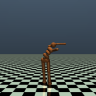
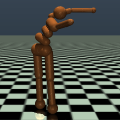
showreel(gallery): better stills for Pusher, Reacher and Humanoid, each with a moment and a crop of its own (PosterShot)
The maintainer, 2026-11-22: "Pusher and reacher need better photos, so does humanaoid".

Why those three were poor. The gallery's poster PNG, the still the README's gallery shows, is the frame 2/5 of the way through
each loop with the whole 480x480 frame shrunk five-fold to 96x96 (Gallery.Write, Pixelate = 5). That suits an env whose
subject fills its frame and fails three whose subject does not: Pusher's table and arm fill the upper left of a black frame
(x 50-320, y 112-290), Reacher's arena sits in the middle of a gray one with an arm a few pixels thick, and Humanoid's figure
(x 190-370, y 213-427) is a 43-pixel strip in the middle of sky and floor.

What changed
- Episodes.cs: PosterShot(Seconds, Left, Top, Width, Height, PixelWidth, PixelHeight), a recipe's optional moment and crop in the
  env's own frame pixels (EpisodeRecipe.Poster), set for the three. The comment on each recipe says where its subject is and why
  the moment: Pusher at 0.5 s (the arm stretched out, its gripper open beside the red puck; crop 240x160 at 110,150 to 120x80),
  Reacher at 2.2 s (crop 360x240 at 48,140 to 120x80: the whole arena, the arm stretched out and the target a dot of its own),
  Humanoid at 0.9 s (crop 240x240 at 144,200 to 120x120: standing with its arms out, with equal margins above and below).
- Gallery.cs: the poster is cut at the recipe's moment and crop. Downscale gained a rectangle overload, and the whole-frame one
[…]

diff --git a/tools/showreel/Gallery.cs b/tools/showreel/Gallery.cs
@@ -28,6 +28,12 @@ namespace Gym.Showreel;
 ///     rate (7.7 MB at 15 fps) and 28.9 MB as lossless WebP at 15 fps (up to 4.9 MB for one MuJoCo loop). The page
 ///     downloads only the loop on screen.
 ///     </para>
+///     <para>
+///     The poster PNG is the still the README's gallery shows (the docs site does not read it). By default it is the frame 2/5 of
+///     the way through the loop at the cartridge loop's size, a fifth of the frame's: right for an env whose subject fills its
+///     frame, a few dozen meaningful pixels for one that does not. A recipe with a <see cref="PosterShot"/> (Pusher, Reacher and
+///     Humanoid) names its own moment and the part of the frame to keep.
+///     </para>
 /// </remarks>
 internal static class Gallery {
     /// <summary>Frames per second of the cartridge loops.</summary>
@@ -70,6 +76,12 @@ internal static class Gallery {
             using var player = new EpisodePlayer(recipe);
             RgbImage first = player.Frame;
             int w = Math.Max(48, (int)Math.Round(first.Width / (double)Pixelate)), h = Math.Max(32, (int)Math.Round(first.Height / (double)Pixelate));
+            // The poster's cartridge frame: 2/5 of the way through by default, else the recipe's own moment (PosterShot). Checked
+            // here, before any encoder starts, so a moment outside the loop fails at once, not after every frame was rendered
+            // and no still was ever written.
+            int posterFrame = recipe.Poster is { } shot ? (int)Math.Round(shot.Seconds * Fps, MidpointRounding.AwayFromZero) : frames * 2 / 5;
+            if (posterFrame < 0 || posterFrame >= frames)
+                throw new InvalidOperationException($"{recipe.Id}: the poster's moment is cartridge frame {posterFrame}, outside the loop's {frames} frames");
             string loop = Path.Combine(folder, recipe.Id + ".webp"), poster = Path.Combine(folder, recipe.Id + ".png");
             string screen = Path.Combine(folder, recipe.Id + ".mp4");
             // Both pipes are disposed on any failure, which kills an unfinished encoder instead of leaving it waiting on
@@ -87,8 +99,8 @@ internal static class Gallery {
                         screenPipe.Write(player.Frame);
                     if (s % 2 == 0 && s / 2 < frames) {
                         pipe.Write(player.Frame);
-                        if (s / 2 == frames * 2 / 5)
-                            Downscale(player.Frame, w, h).SavePng(poster);
+                        if (s / 2 == posterFrame)
+                            Poster(player.Frame, recipe, w, h).SavePng(poster);
                     }
                 }
                 pipe.Finish();
@@ -162,22 +174,61 @@ internal static class Gallery {
             env.ActionSpace.ToString()!, env.ObservationSpace.ToString()!);
     }
 
+    /// <summary>
+    ///     Cuts a recipe's poster still out of one of its frames: the whole frame shrunk to the loop's size, or the part of it the
+    ///     recipe's <see cref="PosterShot"/> names at the size it names.
+    /// </summary>
+    /// <param name="frame">The env's frame at the poster's moment.</param>
+    /// <param name="recipe">The recipe; its <see cref="EpisodeRecipe.Poster"/> says how to cut, or is null for the default.</param>
+    /// <param name="w">The loop's width, which is the default still's.</param>
+    /// <param name="h">The loop's height, which is the default still's.</param>
+    /// <returns>The still.</returns>
+    /// <exception cref="InvalidOperationException">The recipe's crop does not lie inside the frame (a recipe written for a frame size the env no longer renders).</exception>
+    private static RgbImage Poster(RgbImage frame, EpisodeRecipe recipe, int w, int h) {
+        if (recipe.Poster is not { } shot)
+            return Downscale(frame, w, h);
+        // A crop that leaves the frame would average pixels that are not there (the filter clips silently), so it is refused:
+        // the still would come out dark along the missing edge, and nobody would notice until the README showed it.
+        if (shot.Left < 0 || shot.Top < 0 || shot.Width <= 0 || shot.Height <= 0
+            || shot.Left + shot.Width > frame.Width || shot.Top + shot.Height > frame.Height)
+            throw new InvalidOperationException($"{recipe.Id}: the poster's crop {shot.Width}x{shot.Height} at {shot.Left},{shot.Top} does not lie inside the {frame.Width}x{frame.Height} frame");
+        return Downscale(frame, shot.Left, shot.Top, shot.Width, shot.Height, shot.PixelWidth, shot.PixelHeight);
+    }
+
     /// <summary>Shrinks a frame by averaging each output pixel's footprint (an area filter, like ffmpeg's).</summary>
     /// <param name="src">The frame.</param>
     /// <param name="w">Output width.</param>
     /// <param name="h">Output height.</param>
     /// <returns>The small image.</returns>
-    public static RgbImage Downscale(RgbImage src, int w, int h) {
+    public static RgbImage Downscale(RgbImage src, int w, int h) => Downscale(src, 0, 0, src.Width, src.Height, w, h);
+
+    /// <summary>
+    ///     Shrinks a rectangle of a frame by averaging each output pixel's footprint of source pixels, in whole pixels: exact when
+    ///     the rectangle is a whole multiple of the output size, unevenly sampled when it is not.
+    /// </summary>
+    /// <param name="src">The frame.</param>
+    /// <param name="left">The rectangle's left edge, in the frame's pixels.</param>
+    /// <param name="top">The rectangle's top edge.</param>
+    /// <param name="width">The rectangle's width.</param>
+    /// <param name="height">The rectangle's height.</param>
+    /// <param name="w">Output width.</param>
+    /// <param name="h">Output height.</param>
+    /// <returns>The small image.</returns>
+    /// <remarks>
+    ///     The whole-frame overload calls this with the whole frame, so its output is what it always was, bit for bit. The
+    ///     rectangle is not checked here; <see cref="Poster"/>, the one place a rectangle comes from, checks it.
+    /// </remarks>
+    public static RgbImage Downscale(RgbImage src, int left, int top, int width, int height, int w, int h) {
         var dst = new RgbImage(w, h);
-        double sx = (double)src.Width / w, sy = (double)src.Height / h;
+        double sx = (double)width / w, sy = (double)height / h;
         for (int y = 0; y < h; y++) {
-            int y0 = (int)(y * sy), y1 = Math.Max(y0 + 1, (int)((y + 1) * sy));
+            int y0 = top + (int)(y * sy), y1 = Math.Max(y0 + 1, top + (int)((y + 1) * sy));
             for (int x = 0; x < w; x++) {
-                int x0 = (int)(x * sx), x1 = Math.Max(x0 + 1, (int)((x + 1) * sx));
+                int x0 = left + (int)(x * sx), x1 = Math.Max(x0 + 1, left + (int)((x + 1) * sx));
                 double r = 0, g = 0, b = 0;
                 int n = 0;
-                for (int yy = y0; yy < y1 && yy < src.Height; yy++)
-                    for (int xx = x0; xx < x1 && xx < src.Width; xx++) {
+                for (int yy = y0; yy < y1 && yy < top + height; yy++)
+                    for (int xx = x0; xx < x1 && xx < left + width; xx++) {
                         int o = (yy * src.Width + xx) * 3;
                         r += src.Pixels[o];
                         g += src.Pixels[o + 1];

diff --git a/tools/showreel/Episodes.cs b/tools/showreel/Episodes.cs
@@ -32,6 +32,30 @@ internal sealed record DelegatePolicy(Func<IEnv, object?, object> Rule) : IPolic
 }
 
 /// <summary>
+///     How the gallery cuts a recipe's poster still (the PNG the README's gallery shows) out of its episode: which moment, which
+///     part of the env's frame, and at what size. A recipe without one gets the default still, the whole frame at a fifth of its
+///     size from 2/5 of the way through the loop, which suits an env whose subject fills its frame and leaves a few dozen
+///     meaningful pixels for one that does not (Pusher's arm, Reacher's arm and Humanoid's figure fill a third of theirs).
+/// </summary>
+/// <param name="Seconds">
+///     The moment, in seconds from the start of the loop (the loop plays at the recipe's own speed; the still is the cartridge
+///     frame nearest this time, at the gallery's 15 frames a second). It must fall inside the loop, its final hold included.
+/// </param>
+/// <param name="Left">The left edge of the part of the env's frame that is kept, in the frame's own pixels.</param>
+/// <param name="Top">The top edge of that part, in the frame's own pixels.</param>
+/// <param name="Width">The width of that part, in the frame's own pixels.</param>
+/// <param name="Height">The height of that part, in the frame's own pixels.</param>
+/// <param name="PixelWidth">The still's width in pixels.</param>
+/// <param name="PixelHeight">The still's height in pixels.</param>
+/// <remarks>
+///     Choose <paramref name="Width"/> and <paramref name="Height"/> as whole multiples of <paramref name="PixelWidth"/> and
+///     <paramref name="PixelHeight"/>: the gallery averages each output pixel's footprint of source pixels in whole pixels
+///     (<see cref="Gallery.Downscale(RgbImage, int, int, int, int, int, int)"/>), exact when the ratio is an integer and
+///     unevenly sampled when it is not, which shows on thin lines such as Reacher's arm.
+/// </remarks>
+internal sealed record PosterShot(double Seconds, int Left, int Top, int Width, int Height, int PixelWidth, int PixelHeight);
+
+/// <summary>
 ///     One episode the showreel plays: a registered id, a seed, the policy that plays it, how fast it plays, and the stamp
 ///     its ending earns.
 /// </summary>
@@ -56,6 +80,10 @@ internal sealed record DelegatePolicy(Func<IEnv, object?, object> Rule) : IPolic
 ///     unaged, a cloud of them after a mid-episode join. Costs a render per step, cheap for these 2-D envs; the MuJoCo
 ///     envs, whose frames are costly, have no such state.
 /// </param>
+/// <param name="Poster">
+///     How the gallery's poster still is cut from this episode, or null for the default (see <see cref="PosterShot"/>). The
+///     still is what the README's gallery shows, so a recipe sets one when its default would be a speck in a mostly empty frame.
+/// </param>
 internal sealed record EpisodeRecipe(
     string Id,
     string Family,
@@ -68,7 +96,8 @@ internal sealed record EpisodeRecipe(
     string HandLabel = "HAND",
     bool ScoresHands = false,
     IReadOnlyDictionary<string, object?>? Kwargs = null,
-    bool RenderEveryStep = false) {
+    bool RenderEveryStep = false,
+    PosterShot? Poster = null) {
     /// <summary>Ticks a finished episode is held on screen before the next one starts (multi-episode recipes only).</summary>
     public int HandPauseTicks => 2;
 
@@ -142,12 +171,21 @@ internal static class Episodes {
                 },
             }),
         // One Reacher episode is 50 steps (a second at its own 50 fps): four targets in a row at half speed make a clip.
+        // The still: the arena (the purple frame) spans x 48-408 and y 150-370 of the 480x480 frame, the arm's base at its middle;
+        // the crop frames it whole and shrinks it 3x, so the 120x80 still shows the arena, the arm and the target. The first
+        // target is reached at about 1.9 s (the arm folds onto it and hides it) and the second appears at about 2.1 s; at 2.2 s
+        // the arm is stretched out and the target is a red dot of its own.
         new EpisodeRecipe("Reacher-v5", "mujoco", 0, 25, () => new DelegatePolicy(ReacherReach),
             (_, _, ret) => ret > -6 ? "REACHED!" : null, "Inverse kinematics finds the joint angles that put the fingertip on each new target.",
-            Hands: 4, HandLabel: "TARGET"),
+            Hands: 4, HandLabel: "TARGET",
+            Poster: new PosterShot(Seconds: 2.2, Left: 48, Top: 140, Width: 360, Height: 240, PixelWidth: 120, PixelHeight: 80)),
         // Seed 73: the best of seeds 0-199 for the scripted push (the puck ends 0.145 from the goal; return -39.0).
+        // The still: the table and the arm fill the frame's upper left (x 50-320, y 112-290 of 480x480) and the rest is black, so
+        // the default still is a speck. The crop keeps the arm's end of the table, the puck and the pole's foot and shrinks it 2x;
+        // at 0.5 s the arm is stretched out with its gripper open beside the red puck.
         new EpisodeRecipe("Pusher-v5", "mujoco", 73, 20, () => new PusherScript(),
-            (_, _, ret) => ret > -35 ? "PUSHED!" : null, "A seven-joint arm, steered by its fingertip's Jacobian, sweeps to the puck and nudges it goalward."),
+            (_, _, ret) => ret > -35 ? "PUSHED!" : null, "A seven-joint arm, steered by its fingertip's Jacobian, sweeps to the puck and nudges it goalward.",
+            Poster: new PosterShot(Seconds: 0.5, Left: 110, Top: 150, Width: 240, Height: 160, PixelWidth: 120, PixelHeight: 80)),
         new EpisodeRecipe("LunarLander-v3", "box2d", 7, 50, () => new DelegatePolicy((env, o) => LunarLanderEnv.Heuristic(env, (NDArray)o!)),
             (term, _, ret) => term && ret > 100 ? "LANDED!" : term ? "CRASH" : null, "Gymnasium's own heuristic lands between the flags.",
             RenderEveryStep: true),
@@ -174,9 +212,13 @@ internal static class Episodes {
             (term, _, _) => term ? "FLIPPED" : null, "Four legs, eight motors, walking forward.", Kwargs: TrackCamera),
         // A linear policy keeps Humanoid up for about 120 steps on average; seed 73 is the longest of seeds 0-199 (203
         // steps), and three-quarter speed stretches that past the 3.9 s the panel is on screen.
+        // The still: the track camera keeps the figure (x 190-370, y 213-427 of 480x480) near the middle of a frame that is mostly
+        // sky and floor. The crop gives it equal margins above and below and shrinks it 2x; at 0.9 s it stands with its arms out,
+        // well before the fall the recipe ends on.
         new EpisodeRecipe("Humanoid-v5", "mujoco", 73, 50, Trained("Humanoid-v5"),
             (term, _, _) => term ? "FELL" : null, "Seventeen motors keep a humanoid on its feet for a while (shown at three-quarter speed).",
-            Kwargs: TrackCamera),
+            Kwargs: TrackCamera,
+            Poster: new PosterShot(Seconds: 0.9, Left: 144, Top: 200, Width: 240, Height: 240, PixelWidth: 120, PixelHeight: 120)),
         new EpisodeRecipe("HumanoidStandup-v5", "mujoco", 0, 67, Trained("HumanoidStandup-v5"),
             (_, _, _) => null, "Lying on the floor, working its way up.", Kwargs: TrackCamera),
         new EpisodeRecipe("Swimmer-v5", "mujoco", 0, 50, Trained("Swimmer-v5"),

diff --git a/tools/showreel/README.md b/tools/showreel/README.md
@@ -6,8 +6,9 @@ played by a scripted or trained policy, composed in C# over a synthwave backdrop
 | Output | Where it is used |
 |---|---|
 | `docs/media/gym-net-showreel.mp4`: 85 s, 1280x720, 30 fps, H.264 (about 13 MB) | The docs site's landing page, and linked from the README |
-| `docs/media/gym-net-hero.webp`: the same tour cut to 51 s, animated WebP, 800x450, 15 fps (about 8 MB) | The top of `README.md` (GitHub and nuget.org), and the site's fallback where video does not play |
-| `docs/website-src/images/envs/*.webp`, `*.png`, `envs.json` | The site's 8-bit "select your environment" gallery |
+| `docs/media/gym-net-hero.webp`: the same tour cut to 51 s, animated WebP, 800x450, 15 fps (about 8 MB) | The top of `README.md` on GitHub (no package embeds the README), and the site's fallback where video does not play |
+| `docs/website-src/images/envs/*.webp`, `envs.json` | The site's 8-bit "select your environment" gallery |
+| `docs/website-src/images/envs/*.png`: one still per env, the frame 2/5 of the way through its loop at a fifth of the frame's size, except Pusher, Reacher and Humanoid, whose subjects fill only part of the frame: each names a moment and a crop (`PosterShot` in `Episodes.cs`) | The gallery of stills in `README.md` (the site does not read them) |
 | `docs/website-src/images/envs/*.mp4`: the same moments at each env's own frame size, H.264, 30 fps (about 4.2 MB for the 24) | The gallery's "now playing" screen (DR-101), muted and looping without controls |
 | `docs/website-src/images/showreel-poster.jpg`, `gymnet-logo.png`, `gymnet-icon.png` | The video's poster, the site's navbar logo and favicon |
 
